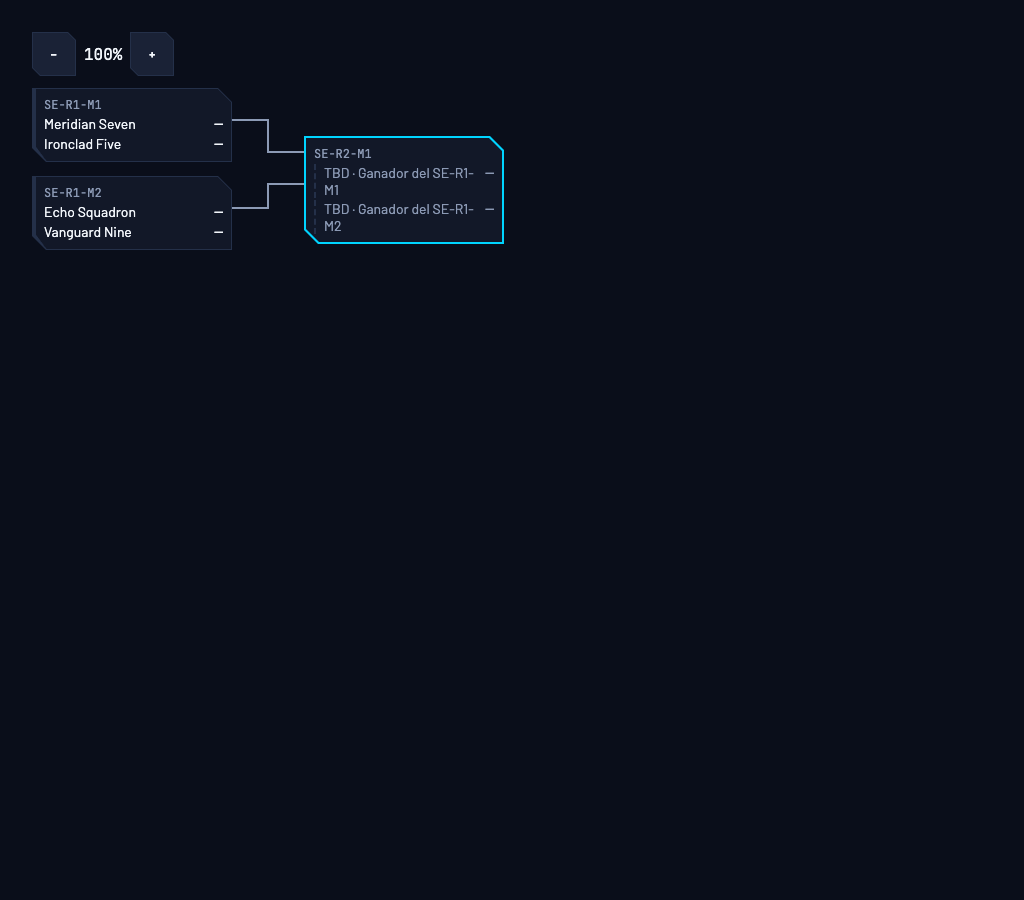
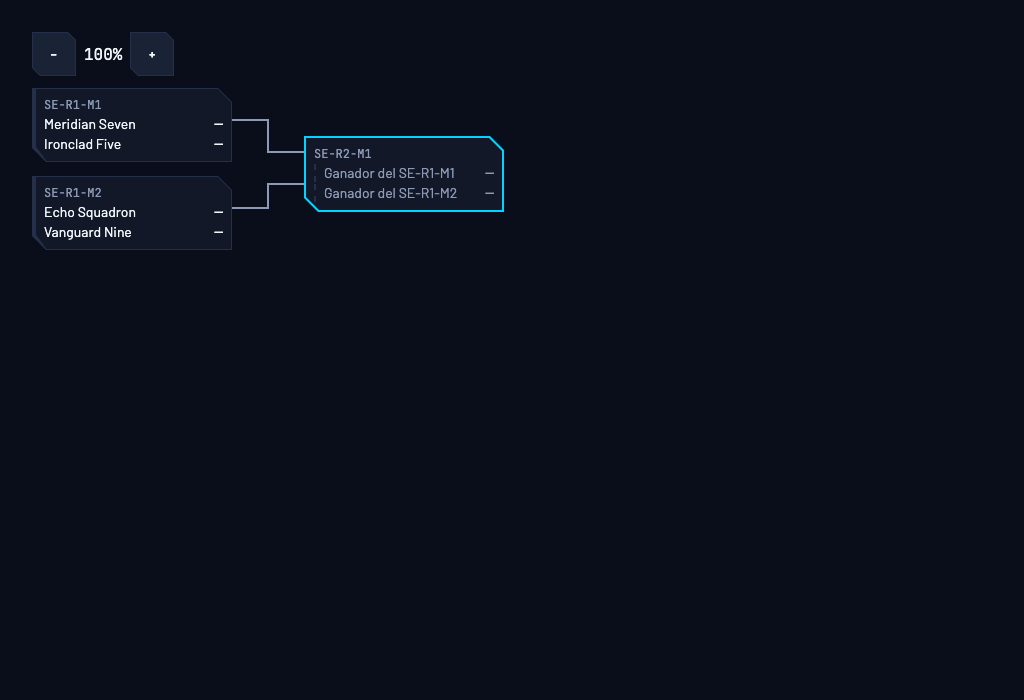
fix(control-web): drop the redundant TBD prefix from pending bracket slots
describeSlot already names what's pending ("Ganador del SE-R1-M1",
"Perdedor del ...", "Libre"); BracketNode's own "TBD · " prefix on top
of that just repeated the same fact twice.

Changed region(s): [[0.0312, 0.03, 0.1875, 0.36], [0.25, 0.15, 0.5, 0.3], [0.2188, 0.12, 0.25, 0.15]]

diff --git a/apps/web/src/control/components/BracketCanvas.tsx b/apps/web/src/control/components/BracketCanvas.tsx
@@ -171,7 +171,7 @@ function BracketNode({
         <div key={`${node.matchId}-${index}`} style={slot.pending ? pendingSlotStyle : slotStyle}>
           {/* Named, never blank: "Ganador del WB-R1-M2" tells an
               operator what has to happen; an empty box reads as a bug. */}
-          <span>{slot.pending ? `TBD · ${slot.label}` : slot.label}</span>
+          <span>{slot.label}</span>
           <span style={scoreStyle}>{slot.score ?? '—'}</span>
         </div>
       ))}

diff --git a/apps/web/src/control/standings-seeding-ui.test.tsx b/apps/web/src/control/standings-seeding-ui.test.tsx
@@ -195,7 +195,7 @@ describe('SeedingBuilderTemplate', () => {
 
     // describeSlot (lib/bracket-canvas.ts) is not yet extracted (documented
     // follow-up) — its dynamic match-ID interpolation stays Spanish regardless of locale.
-    expect(screen.getByText('TBD · Ganador del WB-R1-M1')).toBeTruthy();
+    expect(screen.getByText('Ganador del WB-R1-M1')).toBeTruthy();
     expect(screen.getByText('BO3')).toBeTruthy();
   });
 
